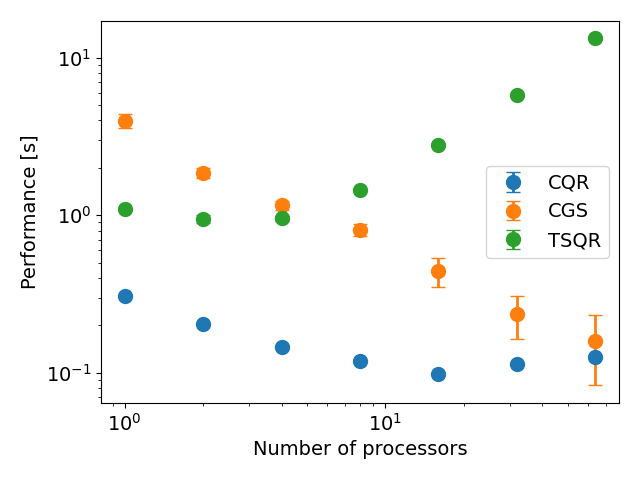
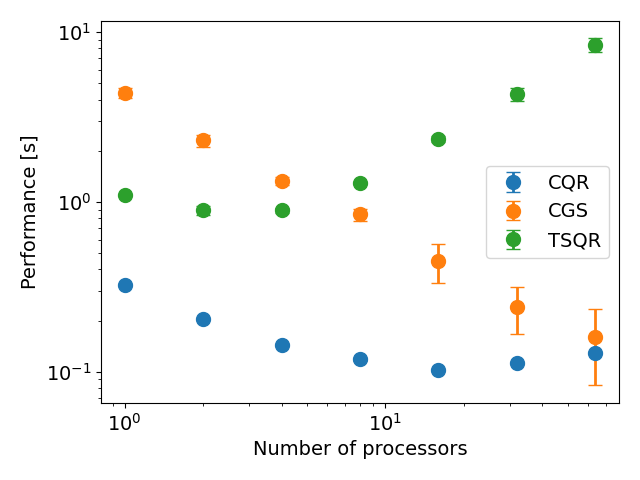
Sendinga back to cluster.

diff --git a/code/computation.py b/code/computation.py
@@ -3,7 +3,7 @@ import numpy as np
 from utils import *
 import time 
 import h5py
-from scipy.linalg import solve_triangular, block_diag, qr
+from scipy.linalg import solve_triangular, block_diag
 from scipy import sparse
 
 # Initialize MPI
@@ -12,9 +12,8 @@ RANK = COMM.Get_rank()
 N_PROCS = COMM.Get_size()
 LOGP_TOT = int_check(np.log2(N_PROCS))
 
-N_REPS = 10 # 5,10 -> To average the runtimes
-PRINT_RESULTS = True
-MODE = 'reduced' # 'reduced' or 'complete'
+N_REPS = 5 # 5,10 -> To average the runtimes
+SAVE_RESULTS = True 
 
 # Problem set up 
 M = 32768 # 32768 2048
@@ -33,11 +32,10 @@ def std_print_results(max_runtimes, err_on_norm, Q_cond_number, ending):
         f.create_dataset(f'err_on_norm_{ending}', data=err_on_norm)
         f.create_dataset(f'Q_cond_number_{ending}', data=Q_cond_number)
 
-    if PRINT_RESULTS == True:
-        print( 'Printing Results for', ending, ':' )
-        print( 'Maximal run-times :', max_runtimes.flatten() )
-        print( 'Final Q Condition Number :', Q_cond_number )
-        print( 'Final Error on Norm :', err_on_norm )
+    print( 'Printing Results for', ending, ':' )
+    print( 'Maximal run-times :', max_runtimes.flatten() )
+    print( 'Final Q Condition Number :', Q_cond_number )
+    print( 'Final Error on Norm :', err_on_norm )
 
 def metrics_from_Q(Q):
     '''
@@ -82,7 +80,8 @@ def CQR(A_l, stability=False):
         if stability:
             return err_on_norm, Q_cond_number
         ending = f'CQR_{mat_lab}'
-        std_print_results(max_runtimes, err_on_norm, Q_cond_number, ending)
+        if SAVE_RESULTS:
+            std_print_results(max_runtimes, err_on_norm, Q_cond_number, ending)
     return
 
 def CGS_metrics(Q):
@@ -97,7 +96,7 @@ def CGS_metrics(Q):
     
     norm_errors = np.empty(N, dtype=float)
     cond_numbers = np.empty(N, dtype=float)
-    if PRINT_RESULTS :
+    if SAVE_RESULTS :
         print('Computing CGS metrics')
     for j in range(N):
         norm_error, cond_number =  metrics_from_Q(Q[:,:j+1])
@@ -157,7 +156,9 @@ def CGS(A_l):
         errs_on_norm, Q_cond_numbers = CGS_metrics(Q)
         max_runtimes = np.max(tot_runtimes, axis=0) # max over all processors
         ending = f'CGS_{mat_lab}'
-        std_print_results(max_runtimes, errs_on_norm, Q_cond_numbers, ending)
+        if SAVE_RESULTS:
+            std_print_results(max_runtimes, errs_on_norm, Q_cond_numbers, ending)
+    return
 
 def get_partner_idx( rank:int, k:int ) -> int:
     idx = 0
@@ -175,11 +176,11 @@ def TSQR(A_l):
         start = time.perf_counter()
 
         if N_PROCS == 1: # direct QR
-            Q, R = np.linalg.qr(A_l, mode=MODE)
+            Q, R = np.linalg.qr(A_l, mode='reduced')
             runtimes[i] = time.perf_counter() - start
             continue
         
-        Y_l_kp1, R_l_kp1 = np.linalg.qr(A_l, mode=MODE) 
+        Y_l_kp1, R_l_kp1 = np.linalg.qr(A_l, mode='reduced') 
         Ys = [Y_l_kp1]
         for q in range(LOGP_TOT): 
             # only keep needed processors 
@@ -191,7 +192,7 @@ def TSQR(A_l):
             else:
                 R_j_kp1 = np.empty(R_l_kp1.shape, dtype=float)
                 COMM.Recv(R_j_kp1, source=j)
-                Y_l_k, R_l_k = np.linalg.qr(np.concatenate((R_l_kp1[:N,:N],R_j_kp1[:N,:N]), axis=0), mode=MODE)
+                Y_l_k, R_l_k = np.linalg.qr(np.concatenate((R_l_kp1,R_j_kp1), axis=0), mode='reduced')
                 R_l_kp1 = R_l_k
                 Ys.append(Y_l_k)
 
@@ -207,7 +208,8 @@ def TSQR(A_l):
         max_runtimes = np.max(tot_runtimes, axis=0) # max over all processors
         err_on_norm, Q_cond_number = metrics_from_Q(Q)
         ending = f'TSQR_{mat_lab}'
-        std_print_results(max_runtimes, err_on_norm, Q_cond_number, ending)
+        if SAVE_RESULTS:
+            std_print_results(max_runtimes, err_on_norm, Q_cond_number, ending)
     return 
 
 def get_right_mat_shape( p:int ):
@@ -251,7 +253,7 @@ def build_Q( Y_s ):
 
 if __name__ == '__main__':
     assert M % N_PROCS == 0, 'Number of processors must divide the number of rows of the matrix'
-    if RANK == 0: # create the output file
+    if SAVE_RESULTS and RANK == 0: # create the output file
         with h5py.File(f'../output/results_n-procs={N_PROCS}.h5', 'w') as f:
             pass
 
@@ -271,7 +273,6 @@ if __name__ == '__main__':
     sing_mat_l = [sing_mat_l, 'sing_mat']
 
     CQR(mat_l)
-    #CQR(sing_mat_l) # not running this as gets error
     CGS(mat_l)
     CGS(sing_mat_l)
     TSQR(mat_l)

diff --git a/code/plot.py b/code/plot.py
@@ -20,6 +20,7 @@ def load_mat_metrics(file, mat_lab, data):
 
 def load_mat_runtimes(file, mat_lab, CQR_data, CGS_data, TSQR_data):
     with h5py.File(file, 'r') as f:
+        print(file, f.keys())
         if not mat_lab == 'sing_mat':
             CQR_data[f'CQR_avg_t_{mat_lab}'] = f[f'max_t_avg_CQR_{mat_lab}'][()]
             CQR_data[f'CQR_std_t_{mat_lab}'] = f[f'max_t_std_CQR_{mat_lab}'][()]    
@@ -140,7 +141,22 @@ def runtime_vs_nprocs(data, mat_lab='mat'):
     if SHOW_PLOTS:
         plt.show()
 
-
+def print_metrics(data): 
+    '''
+    Print the metrics of the matrices.
+    data : dict
+        imported data
+    '''
+    for mat_lab in ['mat', 'sing_mat']:
+        print(f'Metrics for {mat_lab}')
+        if not mat_lab == 'sing_mat':
+            print(f'CQR error on norm: {data[f"CQR_err_{mat_lab}"]}')
+            print(f'CQR condition number: {data[f"CQR_cond_{mat_lab}"]}')
+        print(f'CGS errors on norm: {data[f"CGS_errs_{mat_lab}"]}')
+        print(f'CGS condition numbers: {data[f"CGS_conds_{mat_lab}"]}')
+        print(f'TSQR error on norm: {data[f"TSQR_err_{mat_lab}"]}')
+        print(f'TSQR condition number: {data[f"TSQR_cond_{mat_lab}"]}')
+        print('\n')
 
 print('Running core plots')
 #data = import_data(np.array([1,2,4]))
@@ -149,3 +165,5 @@ CGS_plot(data)
 runtime_vs_nprocs(data)
 print('Running stability plot')
 import cholesky_stability
+print('Mat metrics ...')
+print_metrics(data)
